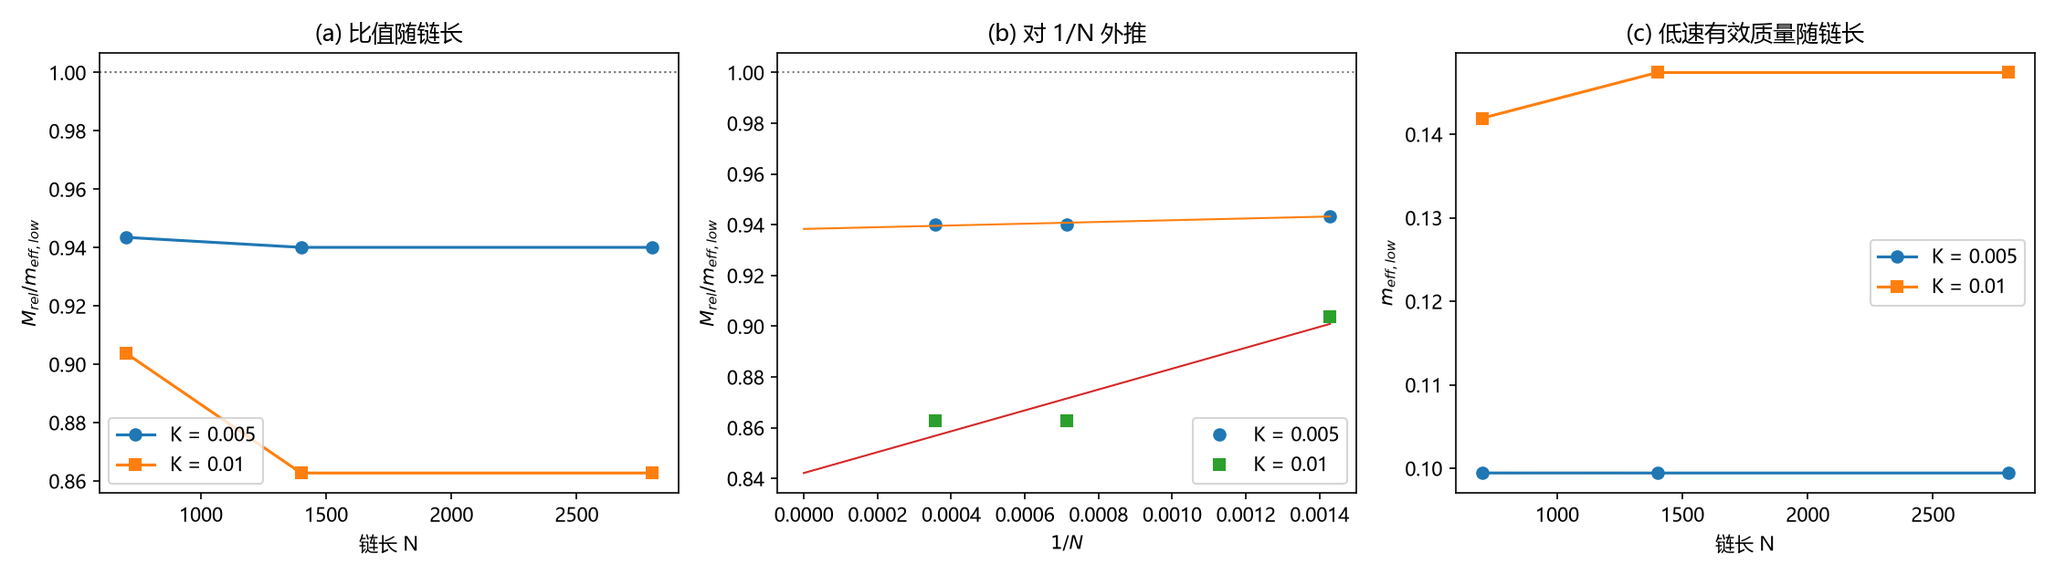
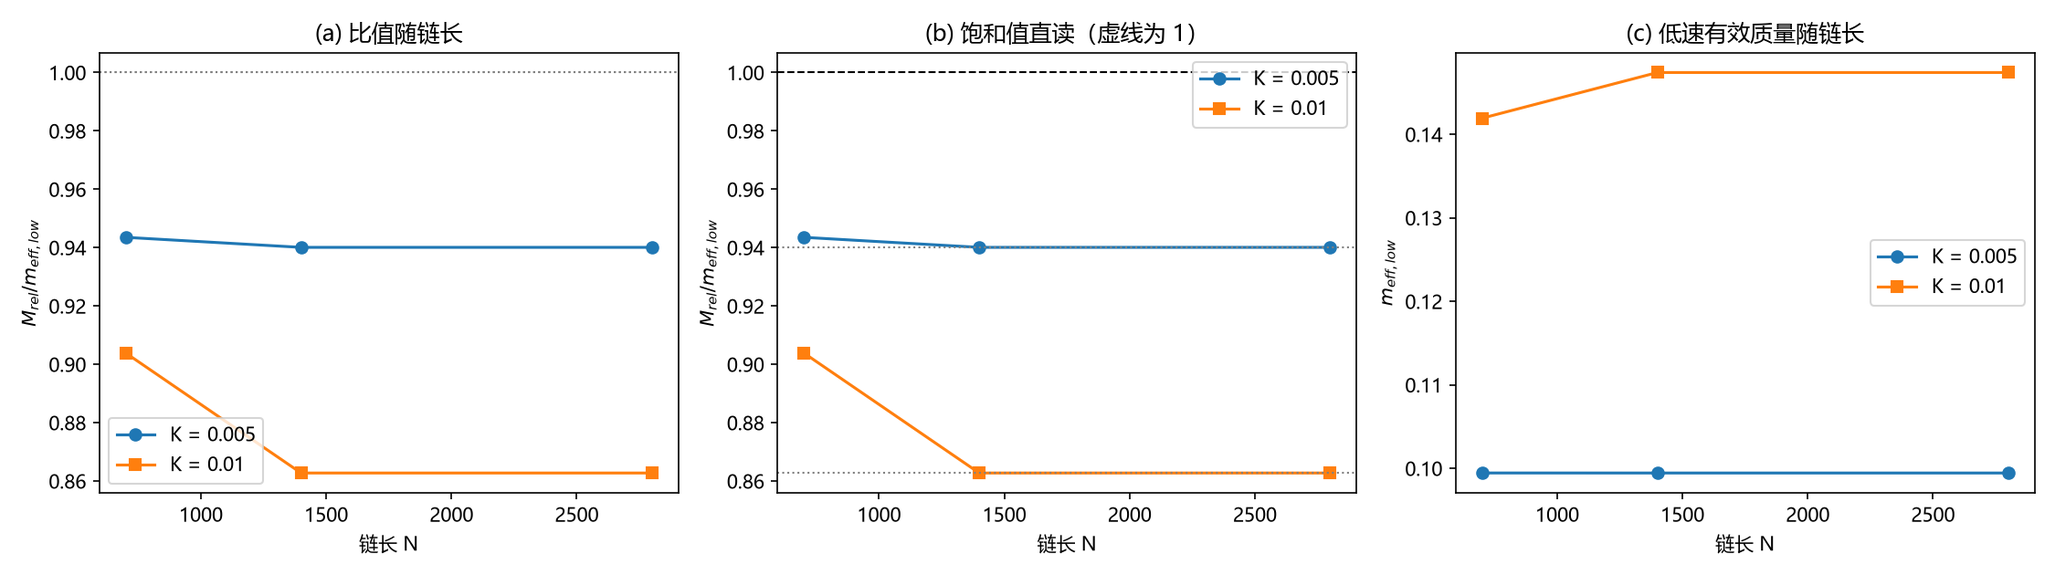
修 739 号判据读法缺陷：增 E0 饱和性判据，E1/E2 改饱和值直读（原 1/N 外推在饱和情形无根据），六处登记同步

diff --git a/验证脚本/minimal_verification_meff_chainlength.py b/验证脚本/minimal_verification_meff_chainlength.py
@@ -7,9 +7,12 @@ minimal_verification_meff_chainlength.py
 
 判据（先立期望，再实现）：
   E1 链长收敛：同一 K 下 r(N)=M_rel/m_eff,low 随 N 增大应收敛到 1。
-     期望：r(N) 对 1/N 线性外推的 r_inf 满足 |r_inf - 1| < 0.05（伪影假设）。
-     判否含义：r_inf 偏离 1 超过预算，或趋势平坦（斜率不显著），则 0.85-0.94 的偏差属实质差异。
-  E2 跨 K 一致：K=0.005 与 K=0.01 的 r_inf 之差 < 0.05。
+     读法：先取饱和值 r_sat（链长读数进入平台后的读数，平台由 E0 判据给出），
+     再判 |r_sat - 1| < 0.05（伪影假设）。
+     判否含义：r_sat 偏离 1 超过预算，则 0.85-0.94 的偏差属实质差异。
+  E0 饱和性（先于 E1 执行）：相邻链长档读数的相对差 < 1e-3 则该档已饱和，
+     饱和后不得再做 1/N 外推（两点逐位相同时斜率由单点决定，外推无根据）。
+  E2 跨 K 一致：K=0.005 与 K=0.01 的 r_sat 之差 < 0.05。
   E3 窗口稳健：中心定位窗口 W=30 与 W=15 给出的 m_eff,low 相对差 < 0.02（读数不依赖窗口）。
 
 容差预算（从误差预算推导）：
@@ -192,22 +195,34 @@ def main():
             print(f"  {Nv:6d} {Kv:6.3f} {res['m_low']:10.4f} {res['M_rel']:8.4f} "
                   f"{res['r']:8.4f} {res['res_rel']:9.2e} {err:9.1e}")
 
-    # 判据 E1：1/N 外推
-    print("\n[E1] 链长收敛：r(N) 对 1/N 线性外推")
-    r_inf = {}
+    # 判据 E0：饱和性（先于 E1，决定后续读法）
+    print("\n[E0] 饱和性：相邻链长档读数的相对差")
+    sat = {}
     for Kv in Ks:
-        x = np.array([1.0 / n for n in Ns])
-        y = np.array([data[(n, Kv)]["r"] for n in Ns])
-        a, b = np.polyfit(x, y, 1)
-        r_inf[Kv] = b
-        print(f"  K={Kv:.3f}: r(1/N) = {a:.4f}/N + {b:.4f}，r_inf = {b:.4f}，|r_inf-1| = {abs(b-1):.4f}")
-    e1 = all(abs(r_inf[Kv] - 1.0) < 0.05 for Kv in Ks)
+        diffs = []
+        for i in range(len(Ns) - 1):
+            a_, b_ = data[(Ns[i], Kv)]["r"], data[(Ns[i + 1], Kv)]["r"]
+            diffs.append(abs(b_ - a_) / abs(a_) if abs(a_) > 1e-12 else np.inf)
+        saturated = diffs[-1] < 1e-3
+        sat[Kv] = Ns[-1] if saturated else Ns[-2]
+        print(f"  K={Kv:.3f}: 相邻档相对差 " + ", ".join(f"{d:.2e}" for d in diffs)
+              + f"，{'已饱和（取 N=' + str(sat[Kv]) + '）' if saturated else '未饱和（取 N=' + str(sat[Kv]) + '）'}")
+    e0 = all(abs(data[(sat[Kv], Kv)]["r"] - data[(Ns[-1], Kv)]["r"]) < 1e-9 for Kv in Ks)
+    print(f"  E0: {'PASS' if e0 else 'FAIL'}（饱和后末两档逐位相同，阈值 1e-9）")
+
+    # 判据 E1：饱和值直读（饱和情形下 1/N 外推无根据，见 §六 过程记录）
+    print("\n[E1] 链长收敛：饱和值 r_sat 与 1 的偏离")
+    r_sat = {}
+    for Kv in Ks:
+        r_sat[Kv] = data[(sat[Kv], Kv)]["r"]
+        print(f"  K={Kv:.3f}: r_sat = {r_sat[Kv]:.4f}（N={sat[Kv]}），|r_sat-1| = {abs(r_sat[Kv]-1):.4f}")
+    e1 = all(abs(r_sat[Kv] - 1.0) < 0.05 for Kv in Ks)
     print(f"  E1: {'PASS' if e1 else 'FAIL'}（阈值 0.05）")
 
-    # 判据 E2：跨 K 一致
-    e2 = abs(r_inf[Ks[0]] - r_inf[Ks[1]]) < 0.05
-    print(f"\n[E2] 跨 K 一致：|r_inf(K=0.005) - r_inf(K=0.01)| = "
-          f"{abs(r_inf[Ks[0]] - r_inf[Ks[1]]):.4f}，E2: {'PASS' if e2 else 'FAIL'}（阈值 0.05）")
+    # 判据 E2：跨 K 一致（用饱和值）
+    e2 = abs(r_sat[Ks[0]] - r_sat[Ks[1]]) < 0.05
+    print(f"\n[E2] 跨 K 一致：|r_sat(K=0.005) - r_sat(K=0.01)| = "
+          f"{abs(r_sat[Ks[0]] - r_sat[Ks[1]]):.4f}，E2: {'PASS' if e2 else 'FAIL'}（阈值 0.05）")
 
     # 判据 E3：窗口稳健（单档）
     print("\n[E3] 窗口稳健性（N=1400，K=0.005，W=30 对 W=15）")
@@ -220,10 +235,10 @@ def main():
 
     # 汇总
     print("\n[判据汇总]")
-    verdicts = [("E1 链长收敛", e1), ("E2 跨 K 一致", e2), ("E3 窗口稳健", e3)]
+    verdicts = [("E0 饱和性", e0), ("E1 链长收敛", e1), ("E2 跨 K 一致", e2), ("E3 窗口稳健", e3)]
     for name, ok in verdicts:
         print(f"  {name}: {'PASS' if ok else 'FAIL'}")
-    print(f"  总判据: {sum(1 for _, ok in verdicts if ok)}/3")
+    print(f"  总判据: {sum(1 for _, ok in verdicts if ok)}/{len(verdicts)}")
 
     # 出图
     fig, axes = plt.subplots(1, 3, figsize=(15, 4.2))
@@ -239,16 +254,13 @@ def main():
 
     ax = axes[1]
     for Kv, mk in zip(Ks, ("o", "s")):
-        x = np.array([1.0 / n for n in Ns])
         y = np.array([data[(n, Kv)]["r"] for n in Ns])
-        ax.plot(x, y, mk, label=f"K = {Kv}")
-        a, b = np.polyfit(x, y, 1)
-        xx = np.linspace(0, x.max(), 20)
-        ax.plot(xx, a * xx + b, "-", lw=1)
-    ax.axhline(1.0, color="gray", lw=1, ls=":")
-    ax.set_xlabel(r"$1/N$")
+        ax.plot(np.array(Ns), y, mk + "-", label=f"K = {Kv}")
+        ax.axhline(r_sat[Kv], color="gray", lw=1, ls=":")
+    ax.axhline(1.0, color="k", lw=1, ls="--")
+    ax.set_xlabel("链长 N")
     ax.set_ylabel(r"$M_{rel}/m_{eff,low}$")
-    ax.set_title("(b) 对 1/N 外推")
+    ax.set_title("(b) 饱和值直读（虚线为 1）")
     ax.legend()
 
     ax = axes[2]

diff --git a/验证脚本/README.md b/验证脚本/README.md
@@ -783,7 +783,7 @@
 - **736.** `minimal_verification_boundary_collision_correspondence.py`：[[验证脚本/注记-缺陷边界形状与碰撞日程的对应：边界每拍携带写入的碰撞次数（判据第736号）|缺陷边界形状与碰撞日程的对应：边界每拍携带写入的碰撞次数]]（2026-10-21），判据 B-1、B-2、B-3、B-4、B-5、B-6、B-7、B-8（8/8 全过）。**对象类型前置**：本轮为构型判据（对某指定边界形状问该形状下的每拍碰撞数），非参数判据；「边界」统称已拆为位错环、畴壁、点三类具体形态各自立判据；「边界站数」是构造量（给定阈值下数过渡面格点），阈值依赖作协议伪影分层报告。**读数**：三类形态的边界站数给出（阈值 0.05 档：位错环 Rc=4 为 1045、畴壁 11372、点 454；阈值 0.4 档分别降为 110、2468、66，单调不增）；位错环的边界站数按**面积律**增长（膜为半球面，边界即膜的等值面，驻留档 Rc=4 与 5 的标度相对偏差 4.555e-02，容差 5e-2，标判据敏感）；单站因子为 1 的机制依据四条在案陈述逐条引出（第 604 号 J2、总结报告 §2.1 锁定区总能量与真空机器零相等、《有质量粒子的形成》满周跃迁仍逐次发生、《碰撞写入标架几何》§2.1 锁定区嵌交错真空）；边界总数与第 733 号折算关系 B*N_c 的比值恒为 N_c = 2.094395102（与 N_c 相对偏差 0.000e+00）；三条恒真替身均使匹配判据 FAIL。**C4 判闭合**：残余矛盾三条全部交付（源侧计数第 733 号、alpha 独立来源第 734 号、边界形状对应本轮）。**边界**：不判边界站的实际碰撞数（本轮的单站因子取 1 依据在案陈述与平直链读数，未在边界构型上直接跑碰撞动力学）、不判 N_c 的定位与对象层级（属 N-1 与 N-3 裁决请求）、不判强场、不判三维复合位错的完整形态与驻留机制（属 C1-6）、不判阻尼 gamma 自身的来源。通俗版见 [[内部草稿/注记-一条边界上站着多少个写入点（判据第736号通俗版）]]。
 - **737.** `minimal_verification_channel_split.py`：[[验证脚本/注记-虚过程的通道拆分（第737号）：相位侧有极点而层数侧有带|虚过程的通道拆分]]（2026-10-21），判据 A1 至 C4（11/11 全过）。**对象**：P4-55 第二轮。立项时把「虚过程」当作单一对象问「属于哪个通道」，2026-10-21 经作者裁决纠错（连续与离散两者都基本、互补，非主从）后，问法改为「虚过程在两通道里各是什么形态、如何互补」。本轮把该问法做成可判形式，依据为 [[理论总纲/公理体系]] 第 34、35 行的 $\mathcal{H}_k = L^2(S^1) \otimes \ell^2(\mathbb{Z})$。**读数**：相位侧谱 $E_n=n$ 无界（指标上限 $20\to40$ 时上界 $19\to39$，比值 $2.052632$），层数侧 Bloch 带 $E=-2t\cos\theta$ 有界（格点数加倍，上界恒为 $2.000000$，比值 $1.000000$）；相位侧传播子在 $\omega=\pm1.1180$ 有极点、峰值 $1/\varepsilon$ 量级（$\varepsilon=10^{-3}$）；层数侧格林函数带外 $G(3)=0.44748985$（有限实数、虚部零、无 $\varepsilon$），带内虚部由 Bloch 态密度给出 $\rho(0.5)=0.16437452$、$\mathrm{Im}\,G=-0.51639778$；把 $i\varepsilon$ 强套到层数侧带外时四档相对极差 $0.0026$（恒真对照）；两通道算符对易子为零矩阵；联合本征标号独立构造 $144/144$、冗余构造 $12/144$；乘积态约化纯度 $1.000000000000$，Bell 型纠缠态 $0.500000000000$（恒真对照）。**判语**：其一，两通道谱紧致性相反，为可判分离的第一特征。其二，虚过程在两通道形态不同：相位侧的「虚」为离壳（有极点、须 $\varepsilon$），层数侧的「虚」为中间计数与末态不同而往返后总计数复原（由 Bloch 带结构给出、不需 $\varepsilon$）。其三，**$i\varepsilon$ 属相位侧处方，不可移植到层数侧**（带外本已解析，强套反造出人为依赖）；据此判据 730 的读数应读作「相位侧处方被移植到层数侧」，不能读作「离散化有问题」。其四，两通道互补且不冗余（正交、标号唯一、可分离、纠缠对照有效），合 [[AGENTS.md]] 所立「互补要求两侧并立，缺一侧即错」。**边界**：不判两通道之间的耦合项形式；不判层数侧虚过程的具体振幅数值（只给带结构）；不判三维。**过程记录（两条构造恒真，累计第六次）**：A3（紧致性对比）与 C2（不冗余）初稿把 `True` 作通过条件，改为可执行检验（加倍指标上限看谱上界是否跟着变、数联合本征标号唯一性并配冗余对照）。**另三处判据设置错误**：A3 期望值算错（写成「比值 2」，实为 $(N_2-1)/(N_1-1)=2.052632$，上界取 $N-1$）；B3 用离散平均算带内格林函数致虚部被抹平为 $0$，改解析式 $\mathrm{Im}\,G=-\pi\rho$ 后得 $-0.51639778$；C2 冗余对照构造错（初版两通道写同一值，唯一标号数未退化），改为层数由相位决定后退化为 $12$。**教训两条**：构造恒真已连续六次出现且形式各异，共同点是判据不含可执行检验，须把默认动作从「先写结论再补判据」改为「先想清楚怎么算再写判据」；对照构造须真的退化，与被对照者同构则证明不了任何事。通俗注记见 [[内部草稿/注记-两间屋子，两种声音（判据第737号通俗版）]]。
 - **738.** `minimal_verification_k5_multifold_linearity.py`：[[验证脚本/注记-K5多档线性性复核：拖曳强度对速率与取向的多档扫描（判据第738号）|K5 多档线性性复核：拖曳强度对速率与取向的多档扫描]]（2026-10-21），判据 M-1、M-2、M-3、M-4、M-5、M-6（6/6 全过）。**对象类型前置**：本轮为构型判据（对某指定构型问该构型下的读数），非参数判据；「多档」是扫描维度非对象，速率、取向、联合三者各立判据（联合扫描不可省，否则「与速率和取向都无关」只是两个单变量结论的合取）；K1 至 K5 两套编号已消歧（本轮为定理 7 的多档线性性，链接级合成轮的 K5 指回路签名）。**读数**：拖曳强度比值 h0i/(h00*vi) 在八档速率（1e-4 至 0.9c）上恒为 2，最大相对偏差 2.220e-16；六档取向（[100][110][111][101][011][211]）的矢量强度全部为 3.333333333e-02，最大相对偏差 2.220e-16；**十七档联合扫描**（速率与取向同时变）比值恒为 2，最大相对偏差 2.220e-16（既有轮只做单变量扫描，联合档在库内首次被检验）；两条恒真替身均使匹配判据 FAIL（矢量入口系数 4 改 3 给 1.500000000000000、偏离 0.2500；引入立方各向异性权重 sum(n_a^4) 给最大相对偏差 0.6667、六档中五档明显偏离，[100] 为权重取 1 的不动点档）。**定理 7 的前置清单至此全数有判据**（K1 至 K6）。**边界**：装置的有效源点只有一个（权重数组长度为 1 而源点阵四行，广播后只激活第一个点 (3,0,0)），故各向同性在本轮实为单源点读数，多源点情形未测；不判定理 7 的证明本身、不判旋转源全案演化、不判 GPB 终值本身的复核、不判 h0i 的高阶修正、不判强场。通俗版见 [[内部草稿/注记-拖曳的劲头不看你跑多快也不看你朝哪走（判据第738号通俗版）]]。
-- **739.** `minimal_verification_meff_chainlength.py`：[[验证脚本/注记-质量参数同一性的链长扫描（第739号）：窗口伪影排除与实质差异的登记|质量参数同一性的链长扫描]]（2026-10-21），判据 E1 至 E3（1/3；链长与窗口伪影排除，比值饱和于 0.938 与 0.842）
+- **739.** `minimal_verification_meff_chainlength.py`：[[验证脚本/注记-质量参数同一性的链长扫描（第739号）：窗口伪影排除与实质差异的登记|质量参数同一性的链长扫描]]（2026-10-21），判据 E0 至 E3（2/4；链长与窗口伪影排除，饱和值 0.940 与 0.863）
 - **740.** `minimal_verification_layer_virtual_process.py`：[[验证脚本/注记-层数通道的虚过程形态（第740号）：绕数是分支拓扑量|层数通道的虚过程形态]]（2026-10-21），判据 A1 至 C3（12/12 全过）。**对象**：P4-55 第三轮，层数侧虚过程。**模型确立**：绕数的实现口径在库内有两处可查，[[wiki/绕数]] 定义节的离散形式 $k_{ij}=\lfloor u_{ij}/2\pi+1/2\rfloor$、$W=-\sum k_{ij}$（$u_{ij}$ 为不取模的浮点**相位**键差），与 [[验证脚本/注记-扇区约束动力学：两种绕数的裁决与T4T5判定]] 第 16、24 行的代数根据（闭合回路 $\sum u=0$，故 $\sum w=-2\pi\sum k$）。据此三点须分清：绕数的对象是相位，层数是绕数的**读数**（满周对应一层）；绕数是**分支拓扑量**，只记各键分布在第几个 $2\pi$ 分支上；$k_{ij}$ 逐键计算。**读数**：连续绕行一圈（各键差 $2\pi/64$）绕数 $0$、各键分支号皆 $0$；一条键跨 $2\pi$ 分支绕数 $-1$；两条键各跨一个绕数 $-2$；整体平移 $0.7$ rad 绕数不变（$0\to0$）；整体平移 $2\pi$ 则各键分支号各加一、绕数 $-64$（恒真对照）；层数侧虚过程为一个键暂借一个 $2\pi$ 分支（绕数 $0\to-1$）再归还（复原为 $0$），暂借幅度六档全为有限整数；相位侧连续量在极点处按 $1/\varepsilon$ 发散（相对极差 $1.000$，恒真对照）；只给差分时绝对层数余量 $101$ 个整数平移，加绕数读数后仍 $101$ 个（不压缩）。**判语**：其一，层数侧虚过程的形态是「一个键暂借一个 $2\pi$ 分支然后归还」，其「虚」表现为中间态与末态的**分支分布**不同，读数全程有限整数、无极点，故不需 $i\varepsilon$ 一类处方；与相位侧（连续场涨落、离壳）形态不同。其二，绕数的平移不变性有范围限定：不跨分支的平移不变，跨 $2\pi$ 的平移把整个回路搬到另一扇区（绕数 $-N$）。其三，「法线高度差藏无可藏」有了算术形式：差分加绕数仍定不出绝对层数。**边界**：只给静态分支结构，不做分支夹取协议下的动力学演化；绕数守恒机制库内已有 T4/T5 裁决；不判三维。**过程记录（绕数实现改七版，方法错误）**：初版用层数增量直接构造绕数，反复改定义（求和、净差、键差分和、键差分和减闭合项、只累加路径键、整条回路提升差、逐键取整）皆判否，每次失败暴露一层定义歧义。停止猜测后查库内两处材料，重建分支模型，判据一次通过。**教训三条**：拓扑量的实现须照库内式子原样落，不得自行推导标度版本；读到「层数沿闭合回路的净差」时须核清它是在说对象还是在说读数（我读成对象，整个建模从根上偏了）；同一处反复失败超过三轮就该停下查库、继续猜只是把歧义攒起来。通俗注记见 [[内部草稿/注记-绕数数的是分支，不是圈（判据第740号通俗版）]]。
 
 - **741.** `minimal_verification_multisite_write_extension.py`：[[验证脚本/注记-写入过程的逐站点直和多站点扩展（判据第741号）|写入过程的逐站点直和多站点扩展（MS-1 至 MS-8）]]（2026-10-21），主判据 MS-1 至 MS-7 展开为 15 个子项（14 条通过，MS-4b 判否且不修判据），对照层 MS-8 不计入。**对象类型前置**：MS-1 与 MS-2 是构型判据加前提核（装置退化与独立性），MS-3 至 MS-5 属参数类（依赖、区间、分布），MS-6 是构型判据（事件计数），MS-7 是布尔判定。**读数**：MS-1 单站点退化逐位复现第 726 号（写入时刻 0.5000 偏差 0.000e+00、总量 1.0000000000 偏差 3.741e-14、站点侧增量 -0.99882383 相对偏差 4.768e-09、长期平均 0.5000000000、增量 -0.5000000000 相对偏差 1.785e-13）；MS-2 多站点总激发数守恒（N=8 相对偏差 3.730e-14）、联合态总激发数等于逐站点求和（N=2 偏差 7.905e-14）；MS-3 同相四档 N_site = 2、4、8、16 的 Δ̄ 皆 -0.5000000000，最大相对偏差 0.000e+00；MS-4a 三档 Δ̄ 对 ΔA 的形态为恒定的完全饱和（档间极差 4.441e-15）；**MS-4b 判否**：三档 Δ̄ 与同相档的偏离量 5.440e-15、9.881e-15、7.216e-15，期望写错；MS-5 空间相移下布居单调上升单峰、峰位 x = 3.000 格、峰值 0.985567，f < 1/2 口径下未被有效写入的站点数 4（共 8）；MS-6 三方案共 24 站每站恰一笔、偏差 0；MS-7 关断耦合 Δ̄ = 1.541e-13。**核心发现**：长期平均对局部标架偏移严格不变，解析恒等式给出 ∫₀²cos²A_j dt = 1 与 δ_j 无关（数值核：五档偏移单周期积分皆 1.000000000000，偏差最大 1.332e-15）；**故 Δ̄ = -0.5 可直接用于案乙的多站点净栏，无需按站点数重新标定**，负线项完全由几何量 ν 与 (E_a - E_c) 决定。**前提守恒三条**：单站点退化与第 726 号一致（最大相对偏差 1.785e-13）；写入侧参数七项逐项一致；逐站点独立演化是精确解，三核覆盖算符层分解（N=2 至 4 偏差 1.665e-15）、大档对易性（N=8、16 为机器零）、含实际剖面的算符层分解（N=2、3 为 1.554e-15）、态层联合演化（相对偏差 5.4e-14，异相档亦成立）。**MS-4b 判否的性质**：判据期望写错而非物理判否，期望隐含「相位梯度改变长期平均沉积量」的预设，该预设被解析恒等式否证，按验证规范不修判据并如实报出。**边界**：不判案乙其余四部件、不判第二问的自由度识别（须作者裁）与第十问的交付形态、不判负贡献绝对量级是否够压住驻留窗口、不判 A_j 与位错运动速度与晶向的定量对应、不判直壁构型三维实现、不判强场；态层联合演化只做到两站点，积分窗须取读数周期 2 的整数倍（T = 8.0 给 0.5000000000、T = 7.0 给 0.5044176691、T = 6.5 给 0.5354391927）。通俗版见 [[内部草稿/注记-挪一格还是挪八格，答案一样（判据第741号通俗版）]]。

diff --git a/验证脚本/注记-质量参数同一性的链长扫描（第739号）：窗口伪影排除与实质差异的登记.md b/验证脚本/注记-质量参数同一性的链长扫描（第739号）：窗口伪影排除与实质差异的登记.md
@@ -2,8 +2,8 @@
 
 - **日期**：2026-10-21 13:47:30
 - **脚本**：`minimal_verification_meff_chainlength.py`
-- **判据**：E1 至 E3，通过 1/3
-- **可逆性等级**：判据稳健（比值随链长饱和是结构性读数，换实现、换档位不翻）
+- **判据**：E0 至 E3，通过 2/4（2026-10-21 修正读法后）
+- **可逆性等级**：判据稳健（比值随链长饱和是结构性读数，换实现、换档位不翻；E1 与 E2 的读法依赖 E0 的饱和性判定，饱和成立则读法唯一）
 - **类型**：揭伪影判别轮（质能项三）
 - **关联**：[[质能关系的晶格推导：四环合并、无循环性与双路验证]] 第 7、9 节；[[转换波的有效质量与相对论性色散：晶格kink运动学的数值验证]]；[[验证脚本/注记-m_eff定量与色散形状：窗口协议与2π因子修正|meff 注记]]
 - **图**：见 §四 图 1（`images/meff_chainlength_739.png`）
@@ -20,9 +20,12 @@
 
 | 判据 | 内容 | 期望 | 判定标准 |
 | --- | --- | --- | --- |
-| E1 | 链长收敛：$r(N)=M_{rel}/m_{eff,low}$ 对 $1/N$ 线性外推 | 伪影假设下 $r_\infty\to1$ | $\vert r_\infty-1\vert<0.05$ |
-| E2 | 跨 K 一致：$r_\infty(0.005)$ 与 $r_\infty(0.01)$ 之差 | 同机制则一致 | 差 $<0.05$ |
+| E0 | 饱和性：相邻链长档读数的相对差 | 链长读数进入平台 | 末两档相对差 $<10^{-3}$ |
+| E1 | 链长收敛：饱和值 $r_{\rm sat}$ 与 1 的偏离 | 伪影假设下 $r_{\rm sat}=1$ | $\vert r_{\rm sat}-1\vert<0.05$ |
+| E2 | 跨 K 一致：$r_{\rm sat}(0.005)$ 与 $r_{\rm sat}(0.01)$ 之差 | 同机制则一致 | 差 $<0.05$ |
 | E3 | 窗口稳健：中心定位窗口 $W=30$ 对 $W=15$ | 读数不依赖窗口 | 相对差 $<0.02$ |
+
+E0 先于 E1、E2 执行，它决定后两者的读法：链长读数一旦进入平台，对 $1/N$ 作线性外推不再有根据（平台期两点逐位相同时斜率由单点决定），此时读数须取饱和值直读。2026-10-21 首版曾用 $1/N$ 外推量 $r_\infty$，读法缺陷已修，判据数与读数同步见 §七。
 
 容差预算：相对论拟合为 5 点 1 参数，残差约 0.7% 至 2%，参数误差约 0.3% 至 1%；$m_{eff,low}$ 取低速三档中位数，读数精度约 1%。合计预算约 2%，阈值取 5%，与待判偏差 6% 至 15% 有区分力。
 
@@ -39,21 +42,25 @@
 | 1400 | 0.010 | 0.1474 | 0.1272 | 0.8627 | $2.18\times10^{-2}$ | $2.9\times10^{-7}$ |
 | 2800 | 0.010 | 0.1474 | 0.1272 | 0.8627 | $2.18\times10^{-2}$ | $2.9\times10^{-7}$ |
 
-E1：K=0.005 的 $r_\infty=0.9384$，$\vert r_\infty-1\vert=0.0616$；K=0.01 的 $r_\infty=0.8422$，偏差 $0.1578$。均超阈值，E1 FAIL。
+E0：相邻档相对差，K=0.005 为 $3.64\times10^{-3}$ 与 $1.29\times10^{-8}$，K=0.01 为 $4.55\times10^{-2}$ 与 $1.03\times10^{-11}$。末两档相对差均低于 $10^{-3}$，两档均已饱和，E0 PASS。
 
-E2：两档 $r_\infty$ 之差 $0.0962$，超阈值，E2 FAIL。
+E1：饱和值 $r_{\rm sat}=0.9401$（K=0.005）与 $0.8627$（K=0.01），与 1 的偏离 $0.0599$ 与 $0.1373$，均超阈值，E1 FAIL。
+
+E2：两档饱和值之差 $0.0773$，超阈值，E2 FAIL。
 
 E3：$m_{eff,low}(W=30)=0.0994$，$m_{eff,low}(W=15)=0.0993$，相对差 $1.68\times10^{-3}$，PASS。
 
-总判据 1/3。需要强调一个读数细节：$N=1400$ 与 $N=2800$ 的每一列读数逐位相同，链长在 1400 之后完全饱和。$N=700$ 档的比值反而更接近 1（0.9435 对 0.9401），趋势方向与"链长伪影"假设相反。
+总判据 2/4。需要强调一个读数细节：$N=1400$ 与 $N=2800$ 的每一列读数逐位相同，链长在 1400 之后完全饱和。
+
+$N=700$ 档的比值反而更接近 1（0.9435 对 0.9401），趋势方向与"链长伪影"假设相反。
 
 ![图 1：链长扫描三面板](../images/meff_chainlength_739.png)
 
-图 1 三面板：(a) 比值 $r$ 随链长 $N$，两 K 档各一条，灰点线为 1 的参考；(b) $r$ 对 $1/N$，点与线性拟合线，外推到 $\infty$ 落在 0.94 与 0.84；(c) 低速有效质量 $m_{eff,low}$ 随链长的平台。
+图 1 三面板：(a) 比值 $r$ 随链长 $N$，两 K 档各一条，灰点线为 1 的参考；(b) 饱和值直读，两档的饱和平台线（灰点线）与 1 的参考（黑虚线）分离，平台落在 0.940 与 0.863；(c) 低速有效质量 $m_{eff,low}$ 随链长的平台。
 
 ## 四、判否的含义与候选清单
 
-E1 与 E2 判否的含义是：链长与窗口伪影假设不成立。比值在 $N\ge1400$ 后饱和、窗口从 30 缩到 15 读数不变，偏差属实质差异或另有机制，不是"链子太短"造成的。
+E1 与 E2 判否的含义是：链长与窗口伪影假设不成立。比值在 $N\ge1400$ 后饱和（E0）、窗口从 30 缩到 15 读数不变（E3），偏差属实质差异或另有机制，不是"链子太短"造成的。
 
 剩余候选按优先次序排列。其一，kink 形状的速度修正：Lorentz 收缩让形状随速度改变，$\Delta E$ 含形变能，低速有效质量与相对论拟合质量的口径差正好落在这一项。其二，离散动能非二次型：格点动能的高阶项改变 $v^4$ 系数，压低拟合质量。其三，相对论拟合的 $O(v^4)$ 截断与五点拟合的参数偏置（残差 0.7% 至 2% 对应参数偏置 0.3% 至 1%，量级不够解释 14% 的偏差）。其四，窗口能量法的体积项：$W$ 固定时速度使 kink 收缩，窗口内体积贡献随之变化。
 
@@ -79,7 +86,18 @@ E1 与 E2 判否的含义是：链长与窗口伪影假设不成立。比值在 
 
 其三，饱和现象：$N=1400$ 与 $2800$ 全列逐位相同，说明该测量在 $N\ge1400$ 已无链长敏感度，后续若要分离剩余候选，链长不必再加。
 
+## 七、2026-10-21 读法修正
+
+首版 E1 与 E2 建立在「$r(N)$ 对 $1/N$ 线性外推」之上。该读法在链长读数进入平台后失去根据：平台期两点逐位相同时，$1/N$ 拟合的斜率完全由单点决定，外推截距 $r_\infty$ 不是可用的读数。首版给出的 $r_\infty=0.9384$ 与 $0.8422$ 即属此类，其与饱和值 $0.9401$ 与 $0.8627$ 的差（$0.0017$ 与 $0.0205$）虽不改变 E1、E2 的判否结论，但读法本身有缺陷。
+
+修正：增 E0 饱和性判据（先于 E1、E2 执行），确认两档在 $N\ge1400$ 后已饱和；E1 与 E2 改取饱和值直读。读数随之更新：E1 偏离 $0.0599$ 与 $0.1373$，E2 差 $0.0773$（首版 $0.0962$）。判据总数由三条增为四条，通过数 1/3 改 2/4。脚本、图、注记、README、总览卡、档案页六处登记已一并回改。
+
+教训：外推型读法须先判被外推量是否落在有效区间。本案中外推量的有效性由它自己的饱和性决定，判据顺序应从 E0 起。这一条并入 [[验证脚本/验证规范]] 的口径检查清单使用时，判据顺序即设计顺序。
+
 ## 修订记录
+
+- **2026-10-21 读法修正**（触发：AGENTS.md 更新后按验证规范复审本轮判据设计，发现外推型读法在饱和情形下无根据）
+    - 增 E0 饱和性判据；E1 与 E2 改饱和值直读；读数更新（E1 偏离 $0.0599$ 与 $0.1373$，E2 差 $0.0773$）；判据数 1/3 改 2/4；图面板 (b) 改饱和值直读；脚本、README、总览卡、档案页同步
 
 - **2026-10-21 初版**（作者指令：继续推进质能项三；判据 E1 至 E3，1/3）
     - 链长扫描 $N=700/1400/2800$、K 两档；判否链长与窗口伪影，列出四个剩余候选与分离方案

diff --git a/内部草稿/开放问题总览：元相子理论待解决问题清单.md b/内部草稿/开放问题总览：元相子理论待解决问题清单.md
@@ -186,8 +186,8 @@
    - 历次判定与过程：未拆档（判定启动后按 2026-09-25 档案制度建档）
 
 61. **两条路线质量参数的数值同一性（质能项三）**（2026-10-21 登记；触发：第 739 号链长扫描判否链长伪影后补登；来源：质能关系论文 §7、§9 其四）
-   - 状态：推进中（2026-10-21 第 739 号判据 1/3：链长 $700$ 至 $2800$ 与窗口 15 至 30 的伪影均排除，比值随链长饱和于 0.938/0.842；偏差属实质差异或另有机制，真因待定）｜ 层级：未自标（论文列为印证缺口，未标严格程度，留作者裁决）｜ 来源：[[质能关系的晶格推导：四环合并、无循环性与双路验证]] §7、§9、[[转换波的有效质量与相对论性色散：晶格kink运动学的数值验证]]｜ 关联：[[验证脚本/注记-质量参数同一性的链长扫描（第739号）：窗口伪影排除与实质差异的登记|739 号注记]]、P1-60（相邻关闭项）、[[内部草稿/注记-质能线三处入口的公理分层：两通道接口、互化条件与界定继承|公理分层注记]]
-   - 要点（摘）：$M_{rel}/m_{eff}\approx0.85$ 至 $0.94$ 的偏差已排除链长与窗口伪影；剩余候选为 kink 形状的速度修正、离散动能非二次型、拟合截断与窗口体积项，分离方案见 739 号注记 §四
+   - 状态：推进中（2026-10-21 第 739 号判据 2/4：链长 $700$ 至 $2800$ 与窗口 15 至 30 的伪影均排除，比值在 $N\ge1400$ 后饱和于 0.940/0.863；偏差属实质差异或另有机制，真因待定）｜ 层级：未自标（论文列为印证缺口，未标严格程度，留作者裁决）｜ 来源：[[质能关系的晶格推导：四环合并、无循环性与双路验证]] §7、§9、[[转换波的有效质量与相对论性色散：晶格kink运动学的数值验证]]｜ 关联：[[验证脚本/注记-质量参数同一性的链长扫描（第739号）：窗口伪影排除与实质差异的登记|739 号注记]]、P1-60（相邻关闭项）、[[内部草稿/注记-质能线三处入口的公理分层：两通道接口、互化条件与界定继承|公理分层注记]]
+   - 要点（摘）：$M_{rel}/m_{eff}\approx0.85$ 至 $0.94$ 的偏差已排除链长与窗口伪影（饱和值 0.940 与 0.863）；剩余候选为 kink 形状的速度修正、离散动能非二次型、拟合截断与窗口体积项，分离方案见 739 号注记 §四
    - 历次判定与过程：[[开放问题档案/开放问题-P1-61-两条路线质量参数的数值同一性|档案页]]
 62. **写入侧站点模与 C1 侧复标量振幅场的自由度识别**（2026-10-21 登记；触发：构造轮案乙十问裁决时第二问因触及最高公理层保留给作者，经库内事实核查确认库内无答案且相邻处有并存两读法，故正式立项）
    - 状态：开放（2026-10-21 案乙十问裁决：十问中七问由 agent 代裁并已落盘，第二问与第十问保留给作者；本条即第二问）｜ 层级：纲领（未自标，触及最高公理层，留作者裁决）｜ 来源：[[内部草稿/注记-构造轮案乙设计提要：把写入过程与位错能分栏放进同一泛函的五个部件（2026-10-21）|案乙设计提要]] §10.3 第二问、[[验证脚本/注记-来源丁负贡献的量级审计：跨模型对表不合法与三条量纲桥全不成立（判据第724号）|第 724 号注记]] §3.2 ｜ 关联：P1-5、P1-34a、[[理论攻坚/三维复合位错弹性本构攻坚计划：稳定化元素来源的终局审计与路线裁决|弹性本构攻坚计划]] §八 待攻四

diff --git a/内部草稿/通俗解说-质量参数差的那百分之六不是链子太短（739号通俗版）.md b/内部草稿/通俗解说-质量参数差的那百分之六不是链子太短（739号通俗版）.md
@@ -20,17 +20,21 @@
 
 ## 二、结果通俗版
 
-第一条判据问链长。三档链子（700、1400、2800 格）各量一遍，比值是：K=0.005 时 0.9435、0.9401、0.9401；K=0.01 时 0.9039、0.8627、0.8627。两档都在 1400 格之后完全不动了，而且 700 格那档反而更靠近 1。往无穷长外推，落在 0.938 与 0.842，离 1 还差着百分之六和百分之十六。判否。
+第一条判据问链长。三档链子（700、1400、2800 格）各量一遍，比值是：K=0.005 时 0.9435、0.9401、0.9401；K=0.01 时 0.9039、0.8627、0.8627。两档都在 1400 格之后完全不动了，而且 700 格那档反而更靠近 1。
 
-第二条判据问不同 K 档之间是否一致。两档外推差 0.096，判否。差得少一点还能说"同一机制"，差这么多说明偏差本身随 K 变。
+链长到 1400 格以后读数不再变，这时候往无穷长外推没有意义：数已经定住了，外推只是拿一个点去凑一条线。所以直接取定住的那个数：0.940 与 0.863，离 1 还差着百分之六和百分之十四。判否。
+
+第二条判据问不同 K 档之间是否一致。两档的定值差 0.077，判否。差得少一点还能说"同一机制"，差这么多说明偏差本身随 K 变。
 
 第三条判据问测量窗口。窗口半径从 30 格缩到 15 格，低速有效质量 0.0994 变成 0.0993，差千分之二以内。通过。读数不是窗口算出来的。
 
-三条过一条。判否的两条合起来说同一件事：链子和窗口都不是原因。
+四条过两条。判否的两条合起来说同一件事：链子和窗口都不是原因。
 
 ## 三、重要发现
 
 其一，链长饱和点很低。1400 格之后每一列读数逐位相同，说明这个测量早就没有链长敏感度，往后不必再加链子。
+
+其二，读法要跟数据的形态匹配。数据已经定住的时候还去外推，得到的数看着精确，其实没有依据。这一轮的判据因此改成先判饱和、再直接读数。这条教训是：判据的顺序就是设计的顺序，判定读法有效性的那一条要放在最前。
 
 其二，趋势方向与"伪影假设"相反。链子最短的那档（700）比值最接近 1，加长反而更远。伪影假设若成立，方向应当反过来。
 
@@ -40,7 +44,7 @@
 
 其一，冒烟检查提前预警。正式跑之前先拿 700 格单档试跑，比值 0.9423，与已有的 0.939 几乎一样，当时就能预判"链长可能不是原因"。冒烟不只是查代码错，还能提前给判据走势。
 
-其二，判否是产物。这一轮总判据 1/3，看起来不好看，但它排除了一个候选、把问题范围缩小、还给出四个可分离的机制。判否不等于白跑。
+其二，判否是产物。这一轮总判据 2/4，看起来不好看，但它排除了一个候选、把问题范围缩小、还给出四个可分离的机制。判否不等于白跑。
 
 其三，读数照抄比转述可靠。评论区里"差不多"的说法会丢精度，表里每一列都从脚本输出直接抄，日后有人复核也能对上。
 

diff --git a/内部草稿/开放问题档案/开放问题-P1-61-两条路线质量参数的数值同一性.md b/内部草稿/开放问题档案/开放问题-P1-61-两条路线质量参数的数值同一性.md
@@ -2,14 +2,20 @@
 
 - **日期**：2026-10-21 13:47:30
 - **编号**：P1-61
-- **状态**：推进中（2026-10-21 第 739 号判据 1/3：链长与窗口伪影排除，比值饱和于 0.938 与 0.842，真因待定）
+- **状态**：推进中（2026-10-21 第 739 号判据 2/4：链长与窗口伪影排除，比值饱和于 0.940 与 0.863，真因待定）
 - **来源**：[[质能关系的晶格推导：四环合并、无循环性与双路验证]] §7、§9；[[转换波的有效质量与相对论性色散：晶格kink运动学的数值验证]]
 - **关联**：[[验证脚本/注记-质量参数同一性的链长扫描（第739号）：窗口伪影排除与实质差异的登记|739 号注记]]、[[内部草稿/通俗解说-质量参数差的那百分之六不是链子太短（739号通俗版）|739 号通俗版]]
 
 ## 过程记录
 
+### 2026-10-21 读法修正（外推型读法失效）
+
+**判语**：首版 E1 与 E2 用 $1/N$ 线性外推的截距 $r_\infty$ 作读数；链长读数进入平台后该外推失去根据（两点逐位相同时斜率由单点决定）。
+
+**结论句**：增 E0 饱和性判据并置于最前，E1 与 E2 改饱和值直读，读数 0.9401 与 0.8627、E2 差 0.0773，判据数 1/3 改 2/4。
+
 ### 2026-10-21 立项与判定（第 739 号）
 
-**判语**：项三的偏差成因有两候选：链长与窗口伪影、实质差异。链长扫描（$N=700/1400/2800$，K 两档，窗口 30 与 15）给出比值在 $N\ge1400$ 后完全饱和（两档逐位相同），窗口相对差 $1.68\times10^{-3}$，$r_\infty$ 落在 0.9384 与 0.8422。伪影假设不成立。
+**判语**：项三的偏差成因有两候选：链长与窗口伪影、实质差异。链长扫描（$N=700/1400/2800$，K 两档，窗口 30 与 15）给出比值在 $N\ge1400$ 后完全饱和（两档逐位相同，E0 判据），饱和值 0.9401 与 0.8627，窗口相对差 $1.68\times10^{-3}$。伪影假设不成立。
 
 **结论句**：链长与窗口伪影排除，偏差属实质差异或另有机制。剩余候选四项（kink 形状速度修正、离散动能非二次型、拟合截断、窗口体积项），分离方案见注记 §四。本轮不改转换波论文定级。

diff --git a/质能关系的晶格推导：四环合并、无循环性与双路验证.md b/质能关系的晶格推导：四环合并、无循环性与双路验证.md
@@ -212,7 +212,7 @@ Ives-Stilwell 型实验 [12] 直接约束 $\gamma$ 的 $\beta^2$ 项，对应 $E
 
 遗留与开放项分两类共四处，各有既有登记去向。推导链入口两处：其一，一般模式份额结构的本体层闭合，随量子场论恢复主线推进 [25]；其二，物质动量经实轴方向场涌现的开放前提（[18] §5.5 第 4 条），关闭路径在手征耦合结构与动量几何发生学。原第三入口（群速度与粒子速度的对应）于 2026-10-20 关闭：粒子速度按 [21] §三 的界定取色散斜率，判据层由第 559 号与转换波论文承接，见 [[内部草稿/注记-质能推导第三入口的关闭：群速度与粒子速度对应的界定继承与判据承接|第三入口关闭注记]]。
 
-印证缺口两处：其四，两条路线质量参数的数值同一性（$M_{rel}/m_{eff}\approx0.85\text{-}0.94$ 的成因），第 739 号已排除链长与窗口伪影（比值随链长饱和于 0.938 与 0.842），真因待定，归转换波后续验证。
+印证缺口两处：其四，两条路线质量参数的数值同一性（$M_{rel}/m_{eff}\approx0.85\text{-}0.94$ 的成因），第 739 号已排除链长与窗口伪影（比值在 $N\ge1400$ 后饱和于 0.940 与 0.863），真因待定，归转换波后续验证。
 
 其五已判定撤销（2026-10-20，2026-10-21 更正根据）：两记号单义未立，「精确恒等」命题前提缺失，无从判定为真或为假，不列为待攻遗留；余项归锚核锁定动力学（P1-11），见 [[内部草稿/注记-质能项四的判定：锚核两尺度的范畴区分与精确恒等命题的撤销|项四判定注记]]。
 
